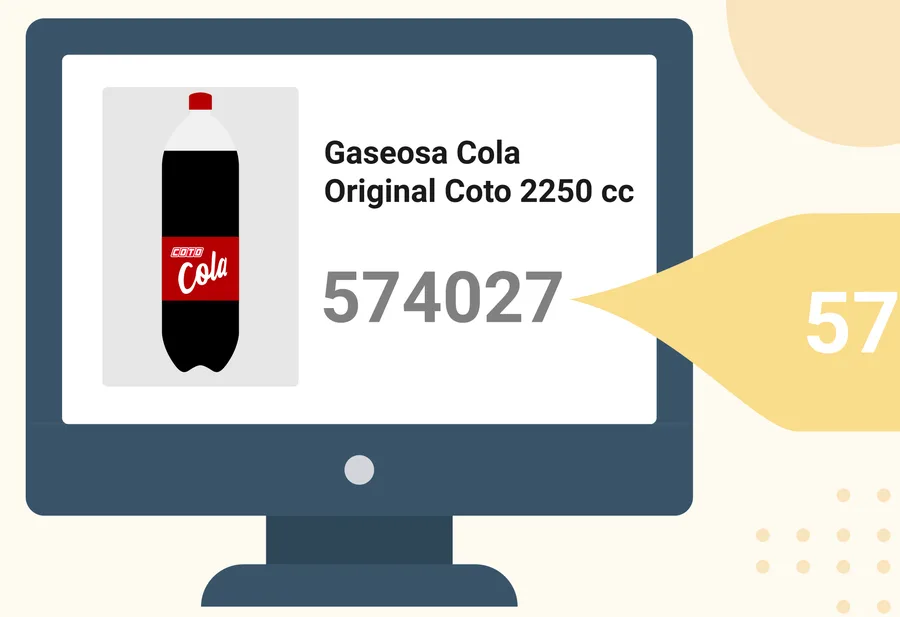
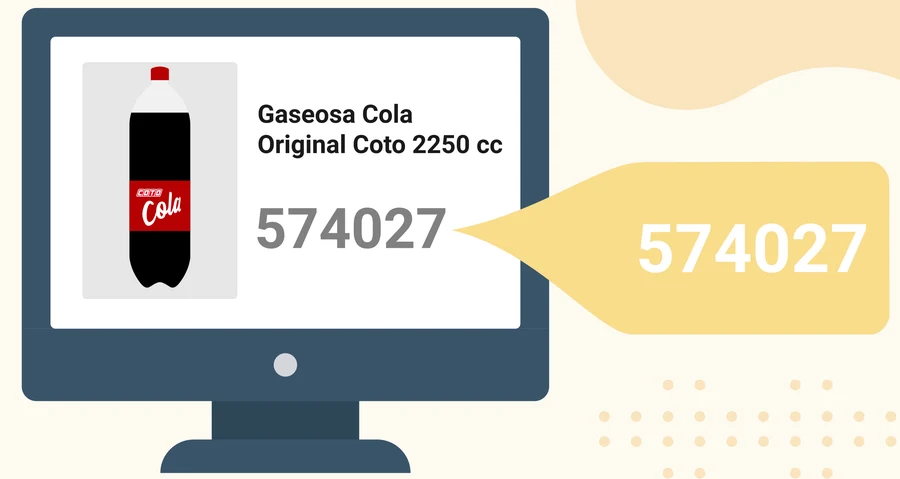
Ronda 9: rediseño de la portada del mini juego y recorte correcto de 3 ilustraciones
La Ronda 8 había dejado el mini juego sin el arte de la portada del PDF
(mascotas, guirnaldas, guarda inferior) y 3 de las 5 ilustraciones de
pregunta mal recortadas (el globo de "574027" cortado a la mitad, el
carrito y el gráfico de barras solo visibles en una esquina). Se
recortaron las mascotas/guirnalda del PDF a resolución completa, se
re-recortaron las 3 ilustraciones con margen generoso, y los chips
Concepto/Puntos/Vidas/Reglas pasaron a un estilo uniforme calcado del
PDF (sin el resaltado dorado que traía el kit por default en Puntos).
Verificado en desktop y viewport móvil real. Detalle completo en
work/surtido-sin-ventas/README-CURSO.md, sección Ronda 9.

Claude-Session: https://claude.ai/code/session_01TWiDjingk3EDtNmA7RC5c6

diff --git a/work/surtido-sin-ventas/index.html b/work/surtido-sin-ventas/index.html
@@ -354,33 +354,46 @@
     <div class="d-mj-panel" data-mj-panel="intro">
       <div class="d-mj-intro">
         <span class="d-mj-intro-kicker"><svg viewBox="0 0 24 24" fill="none" stroke="currentColor" stroke-width="2" stroke-linecap="round" stroke-linejoin="round" aria-hidden="true"><path d="M9 11.5V6a2 2 0 1 1 4 0v5"/><path d="M13 6a2 2 0 1 1 4 0v6"/><path d="M17 8a2 2 0 1 1 4 0v6a7 7 0 0 1-7 7h-2a7 7 0 0 1-6-3.4L3.3 13a1.8 1.8 0 0 1 2.8-2.2L9 13.5"/></svg> ¡Jugá con nosotros!</span>
-        <h2 class="d-mj-intro-tit" data-slide-title>¡Bienvenido a este <span>mini juego</span>!</h2>
-        <p class="d-mj-intro-body">En este juego se te van a presentar distintos conceptos y, dentro de varias respuestas, tenés que seleccionar la correcta.</p>
-        <button type="button" class="btn btn-cat d-mj-intro-cta" data-mj-start>¡Empecemos!</button>
-        <ul class="d-mj-intro-tips">
-          <li><span class="d-mj-intro-tip-ic" aria-hidden="true"><svg viewBox="0 0 24 24"><circle cx="12" cy="12" r="9"/><circle cx="12" cy="12" r="5"/><circle cx="12" cy="12" r="1.4" fill="currentColor"/></svg></span><b>Observá</b> cada situación</li>
-          <li><span class="d-mj-intro-tip-ic" aria-hidden="true"><svg viewBox="0 0 24 24"><path d="M9 18h6M10 21h4"/><path d="M12 3a6 6 0 0 0-3 11.2c.5.4.8 1 .8 1.8h4.4c0-.8.3-1.4.8-1.8A6 6 0 0 0 12 3z"/></svg></span><b>Pensá</b> antes de elegir</li>
-          <li><span class="d-mj-intro-tip-ic" aria-hidden="true"><svg viewBox="0 0 24 24"><rect x="4" y="15" width="16" height="3" rx="1"/><rect x="5" y="11" width="14" height="3" rx="1"/><rect x="6" y="7" width="12" height="3" rx="1"/></svg></span><b>Aprendé</b> mientras jugás</li>
-        </ul>
+        <div class="d-mj-intro-main">
+          <img class="d-mj-intro-mascot d-mj-intro-mascot--l" src="img/mj-mascota-1.webp" alt="" aria-hidden="true" width="550" height="1410">
+          <div class="d-mj-intro-mid">
+            <h2 class="d-mj-intro-tit" data-slide-title>¡Bienvenido a<br>
+              <span class="d-mj-intro-tit-line"><img class="d-mj-wreath d-mj-wreath--l" src="img/mj-wreath.webp" alt="" aria-hidden="true">este <span>mini juego</span>!<img class="d-mj-wreath d-mj-wreath--r" src="img/mj-wreath.webp" alt="" aria-hidden="true"></span>
+            </h2>
+            <div class="d-mj-intro-bubble">
+              <p class="d-mj-intro-body">En este juego se te van a presentar distintos conceptos y, dentro de varias respuestas, tenés que seleccionar la correcta.</p>
+            </div>
+            <button type="button" class="btn btn-cat d-mj-intro-cta" data-mj-start>¡Empecemos!</button>
+          </div>
+          <img class="d-mj-intro-mascot d-mj-intro-mascot--r" src="img/mj-mascota-2.webp" alt="" aria-hidden="true" width="550" height="1410">
+        </div>
+        <div class="d-mj-intro-floor">
+          <ul class="d-mj-intro-tips">
+            <li><span class="d-mj-intro-tip-ic" aria-hidden="true"><svg viewBox="0 0 24 24"><circle cx="12" cy="12" r="9"/><circle cx="12" cy="12" r="5"/><circle cx="12" cy="12" r="1.4" fill="currentColor"/></svg></span><b>Observá</b> cada situación</li>
+            <li><span class="d-mj-intro-tip-ic" aria-hidden="true"><svg viewBox="0 0 24 24"><path d="M9 18h6M10 21h4"/><path d="M12 3a6 6 0 0 0-3 11.2c.5.4.8 1 .8 1.8h4.4c0-.8.3-1.4.8-1.8A6 6 0 0 0 12 3z"/></svg></span><b>Pensá</b> antes de elegir</li>
+            <li><span class="d-mj-intro-tip-ic" aria-hidden="true"><svg viewBox="0 0 24 24"><rect x="4" y="15" width="16" height="3" rx="1"/><rect x="5" y="11" width="14" height="3" rx="1"/><rect x="6" y="7" width="12" height="3" rx="1"/></svg></span><b>Aprendé</b> mientras jugás</li>
+          </ul>
+        </div>
       </div>
     </div>
     <div class="d-mj-panel" data-mj-panel="play" hidden>
       <div class="d-mj-play">
+        <span class="d-mj-intro-kicker d-mj-play-kicker"><svg viewBox="0 0 24 24" fill="none" stroke="currentColor" stroke-width="2" stroke-linecap="round" stroke-linejoin="round" aria-hidden="true"><path d="M9 11.5V6a2 2 0 1 1 4 0v5"/><path d="M13 6a2 2 0 1 1 4 0v6"/><path d="M17 8a2 2 0 1 1 4 0v6a7 7 0 0 1-7 7h-2a7 7 0 0 1-6-3.4L3.3 13a1.8 1.8 0 0 1 2.8-2.2L9 13.5"/></svg> ¡Jugá con nosotros!</span>
         <div class="d-mj-stats">
           <div class="d-mj-stat">
             <span class="d-mj-stat-lbl">Concepto</span>
             <b><span data-mj-idx>1</span>/<span data-mj-total>5</span></b>
           </div>
-          <div class="d-mj-stat d-mj-stat--pts">
+          <div class="d-mj-stat">
             <span class="d-mj-stat-lbl">Puntos</span>
-            <b><span class="d-mj-trophy" aria-hidden="true">🏆</span><span data-mj-puntos-juego>0</span></b>
+            <b><span class="d-mj-trophy" aria-hidden="true"><svg viewBox="0 0 24 24" fill="currentColor"><path d="M6 3h12v2h2.5a1 1 0 0 1 1 1.1c-.2 2.1-1.2 4-3.5 4.7-.6 1.5-1.8 2.6-3.5 3v2.2h2.4a1 1 0 0 1 1 1V19H8v-2a1 1 0 0 1 1-1h2.4v-2.2c-1.7-.4-2.9-1.5-3.5-3-2.3-.7-3.3-2.6-3.5-4.7A1 1 0 0 1 5.4 5H8V3zM6 7H4.9c.2 1.1.7 2 1.6 2.5A9 9 0 0 1 6 7zm12 0a9 9 0 0 1-.5 2.5c.9-.5 1.4-1.4 1.6-2.5H18z"/></svg></span><span data-mj-puntos-juego>0</span></b>
           </div>
           <div class="d-mj-stat">
             <span class="d-mj-stat-lbl">Vidas</span>
             <span class="d-mj-lives" data-mj-lives>
-              <svg class="d-mj-heart" data-mj-heart viewBox="0 0 24 24" fill="currentColor" aria-hidden="true"><path d="M12 21s-6.7-4.35-9.75-8.5C.4 9.4 2 6 5.6 6c2 0 3.6 1.2 4.6 2.7C11.2 7.2 12.8 6 15.1 6 18.4 6 20 9.5 18.05 12.5 15 16.65 12 21 12 21z"/></svg>
-              <svg class="d-mj-heart" data-mj-heart viewBox="0 0 24 24" fill="currentColor" aria-hidden="true"><path d="M12 21s-6.7-4.35-9.75-8.5C.4 9.4 2 6 5.6 6c2 0 3.6 1.2 4.6 2.7C11.2 7.2 12.8 6 15.1 6 18.4 6 20 9.5 18.05 12.5 15 16.65 12 21 12 21z"/></svg>
-              <svg class="d-mj-heart" data-mj-heart viewBox="0 0 24 24" fill="currentColor" aria-hidden="true"><path d="M12 21s-6.7-4.35-9.75-8.5C.4 9.4 2 6 5.6 6c2 0 3.6 1.2 4.6 2.7C11.2 7.2 12.8 6 15.1 6 18.4 6 20 9.5 18.05 12.5 15 16.65 12 21 12 21z"/></svg>
+              <svg class="d-mj-heart" data-mj-heart viewBox="0 0 8 7" fill="currentColor" shape-rendering="crispEdges" aria-hidden="true"><rect x="1" y="0" width="2" height="1"/><rect x="5" y="0" width="2" height="1"/><rect x="0" y="1" width="8" height="1"/><rect x="0" y="2" width="8" height="1"/><rect x="0" y="3" width="8" height="1"/><rect x="1" y="4" width="6" height="1"/><rect x="2" y="5" width="4" height="1"/><rect x="3" y="6" width="2" height="1"/></svg>
+              <svg class="d-mj-heart" data-mj-heart viewBox="0 0 8 7" fill="currentColor" shape-rendering="crispEdges" aria-hidden="true"><rect x="1" y="0" width="2" height="1"/><rect x="5" y="0" width="2" height="1"/><rect x="0" y="1" width="8" height="1"/><rect x="0" y="2" width="8" height="1"/><rect x="0" y="3" width="8" height="1"/><rect x="1" y="4" width="6" height="1"/><rect x="2" y="5" width="4" height="1"/><rect x="3" y="6" width="2" height="1"/></svg>
+              <svg class="d-mj-heart" data-mj-heart viewBox="0 0 8 7" fill="currentColor" shape-rendering="crispEdges" aria-hidden="true"><rect x="1" y="0" width="2" height="1"/><rect x="5" y="0" width="2" height="1"/><rect x="0" y="1" width="8" height="1"/><rect x="0" y="2" width="8" height="1"/><rect x="0" y="3" width="8" height="1"/><rect x="1" y="4" width="6" height="1"/><rect x="2" y="5" width="4" height="1"/><rect x="3" y="6" width="2" height="1"/></svg>
             </span>
           </div>
           <button type="button" class="d-mj-stat d-mj-rules" data-popup-trigger="minijuego-reglas">

diff --git a/work/surtido-sin-ventas/css/diapositivas.css b/work/surtido-sin-ventas/css/diapositivas.css
@@ -76,32 +76,88 @@
   overflow-y: auto; padding: 1.5rem 0; width: 100%; }
 
 /* ---- Intro ---- */
-.d-mj-intro { max-width: 720px; margin: 0 auto; text-align: center; padding: 0 1.5rem; }
+.d-mj-intro { max-width: 1020px; margin: 0 auto; text-align: center; padding: 0 1.5rem;
+  width: 100%; position: relative; }
 .d-mj-intro-kicker { display: inline-flex; align-items: center; gap: .5rem;
   padding: .5rem 1.1rem; border-radius: var(--r-pill); background: var(--cat-grad);
   color: #fff; font-weight: 800; font-size: .85rem; margin-bottom: 1.3rem; }
 .d-mj-intro-kicker svg { width: 18px; height: 18px; fill: none; stroke: currentColor; stroke-width: 2; }
+/* ---- "Jugá con nosotros": franja fija arriba a la izquierda en las
+   5 pantallas de pregunta del PDF real — no solo en la intro. ---- */
+.d-mj-play-kicker { position: absolute; top: 0; left: 1.5rem; margin: 0; z-index: 1; }
+
+.d-mj-intro-main { display: flex; align-items: flex-end; justify-content: center;
+  gap: 1.2rem; }
+.d-mj-intro-mascot { width: clamp(90px, 13cqw, 168px); height: auto; flex: none;
+  align-self: flex-end; }
+.d-mj-intro-mid { flex: 1 1 480px; max-width: 560px; }
 .d-mj-intro-tit { font-family: var(--font-title); font-weight: 900;
-  font-size: clamp(1.6rem, 3cqw, 2.3rem); margin: 0 0 1rem; line-height: 1.15; }
-.d-mj-intro-tit span { color: var(--cat-ink); }
-.d-mj-intro-body { font-size: 1rem; color: var(--text); line-height: 1.5; margin: 0 0 1.5rem; }
-.d-mj-intro-cta { margin-bottom: 2rem; }
+  font-size: clamp(1.5rem, 2.6cqw, 2.1rem); margin: 0 0 1.1rem; line-height: 1.2; }
+.d-mj-intro-tit-line { position: relative; display: inline-flex; align-items: center;
+  gap: .5rem; }
+.d-mj-intro-tit span:not(.d-mj-wreath):not(.d-mj-intro-tit-line) { color: var(--cat-ink); }
+.d-mj-wreath { width: 40px; height: auto; flex: none; opacity: .95; align-self: center; }
+.d-mj-wreath--r { transform: scaleX(-1); }
+.d-mj-intro-bubble { background: var(--surface); border: 1px solid var(--line);
+  border-radius: var(--r-xl); box-shadow: var(--shadow-card); padding: 1.2rem 1.4rem;
+  margin: 0 0 1.1rem; }
+.d-mj-intro-body { font-size: .96rem; color: var(--text); line-height: 1.5; margin: 0; }
+.d-mj-intro-cta { margin: 0 0 .5rem; }
+
+.d-mj-intro-floor { margin-top: 1.8rem; width: 100vw; margin-left: calc(50% - 50vw);
+  padding: 1.3rem 1.5rem .9rem; border-radius: 48% 48% 0 0 / 60px 60px 0 0;
+  background: linear-gradient(180deg, #9199a6, #767f8d); }
 .d-mj-intro-tips { list-style: none; margin: 0; padding: 0; display: flex;
   justify-content: center; gap: 2rem; flex-wrap: wrap; }
 .d-mj-intro-tips li { display: flex; flex-direction: column; align-items: center;
-  gap: .4rem; font-size: .85rem; color: var(--text-soft); max-width: 140px; }
-.d-mj-intro-tips b { color: var(--text); font-family: var(--font-title); }
-.d-mj-intro-tip-ic { width: 44px; height: 44px; border-radius: 50%; display: grid;
-  place-items: center; background: var(--cat-wash); color: var(--cat-ink); }
-.d-mj-intro-tip-ic svg { width: 24px; height: 24px; fill: none; stroke: currentColor;
+  gap: .3rem; font-size: .82rem; color: #eef0f4; max-width: 140px; }
+.d-mj-intro-tips b { color: #fff; font-family: var(--font-title); }
+.d-mj-intro-tip-ic { width: 40px; height: 40px; border-radius: 50%; display: grid;
+  place-items: center; background: rgba(255,255,255,.16); color: #ffbd59; }
+.d-mj-intro-tip-ic svg { width: 22px; height: 22px; fill: none; stroke: currentColor;
   stroke-width: 2; stroke-linecap: round; stroke-linejoin: round; }
+
+@media (max-width: 760px) {
+  .d-mj-intro-mascot { display: none; }
+}
+@media (max-width: 480px) {
+  /* Mismo motivo que el padding-bottom de .d-mj-play más abajo: la
+     franja de tips es la última fila del panel y el fab-stack
+     (engranaje/ayuda, fijo del kit) le tapa el 3er ítem si no le
+     dejamos hueco a la derecha. Achicamos gap/ícono/texto para que
+     los 3 ítems sigan entrando en una sola fila con ese hueco. */
+  .d-mj-intro-floor { padding: 1rem 1.5rem .8rem; padding-right: 70px; }
+  .d-mj-intro-tips { gap: .6rem; flex-wrap: nowrap; }
+  .d-mj-intro-tips li { font-size: .68rem; max-width: none; }
+  .d-mj-intro-tip-ic { width: 32px; height: 32px; }
+  .d-mj-intro-tip-ic svg { width: 18px; height: 18px; }
+}
 
 /* ---- Tarjeta de pregunta ---- */
 .d-mj-play { display: flex; flex-direction: column; gap: 1.1rem; width: 100%;
-  max-width: 900px; margin: 0 auto; padding: 0 1.5rem; }
-.d-mj-card { display: flex; align-items: center; gap: 1.5rem;
-  background: linear-gradient(160deg, #fff8ea, #fdf1da); border: 1px solid #f0dcae;
+  max-width: 900px; margin: 0 auto; padding: 3.4rem 1.5rem 0; position: relative; }
+.d-mj-trophy svg { width: 1.1em; height: 1.1em; vertical-align: -.15em; color: #e0a52e; }
+/* Fondo decorativo de la tarjeta calcado del PDF: puntos en grilla
+   arriba a la izquierda + 2 manchas cálidas en las esquinas —
+   100% CSS (gradientes/radial), no un recorte del PDF, para que
+   escale con cualquier alto de tarjeta sin pixelarse. */
+.d-mj-card { position: relative; overflow: hidden; display: flex; align-items: center;
+  gap: 1.5rem; background: linear-gradient(160deg, #fff8ea, #fdf1da); border: 1px solid #f0dcae;
   border-radius: var(--r-xl); padding: 1.6rem 1.8rem; min-height: 210px; }
+.d-mj-card::before { content: ""; position: absolute; inset: 0; pointer-events: none;
+  background:
+    radial-gradient(circle at 92% -6%, #f6dfae 0%, #f6dfae 22%, transparent 23%),
+    radial-gradient(circle at 100% 78%, #fbe8c4 0%, #fbe8c4 26%, transparent 27%),
+    radial-gradient(circle 1.5px at 8% 16%, #ecd39c 96%, transparent 100%),
+    radial-gradient(circle 1.5px at 14% 16%, #ecd39c 96%, transparent 100%),
+    radial-gradient(circle 1.5px at 8% 22%, #ecd39c 96%, transparent 100%),
+    radial-gradient(circle 1.5px at 14% 22%, #ecd39c 96%, transparent 100%),
+    radial-gradient(circle 1.5px at 20% 22%, #ecd39c 96%, transparent 100%),
+    radial-gradient(circle 1.5px at 8% 28%, #ecd39c 96%, transparent 100%),
+    radial-gradient(circle 1.5px at 14% 28%, #ecd39c 96%, transparent 100%),
+    radial-gradient(circle 1.5px at 20% 28%, #ecd39c 96%, transparent 100%);
+  opacity: .8; }
+.d-mj-card > * { position: relative; }
 .d-mj-card-text { flex: 1 1 55%; font-size: 1.02rem; line-height: 1.5; color: var(--text); }
 .d-mj-card-text b { color: var(--cat-ink); }
 .d-mj-card-img { flex: 1 1 40%; display: flex; align-items: center; justify-content: center; }

diff --git a/work/surtido-sin-ventas/README-CURSO.md b/work/surtido-sin-ventas/README-CURSO.md
@@ -327,6 +327,77 @@ Suite completa (7/7), `check-css-duplicates`/`check-image-weight`
 siguen en verde. Baseline de `visual-regress.mjs` regenerada (el panel
 del mini juego cambió por completo).
 
+## Ronda 9 — el mini juego de la Ronda 8 no calcaba el diseño del PDF: portada sin arte, 3 de 5 ilustraciones mal recortadas, chips con un estilo propio
+
+El cliente mandó capturas reales de su propia prueba (portada, Q1, Q2)
+comparadas con el PDF de referencia: la portada no tenía el arte de los
+2 mascotas ni la guarda gris de abajo, y en la Q2 ("Control de surtido
+sin venta") la tarjeta se veía sin ilustración. Reabrí el PDF de la
+Ronda 8 a resolución completa (no solo el recorte que había usado para
+cada pregunta) y encontré el problema real:
+
+1. **3 de las 5 ilustraciones recortadas en la Ronda 8 estaban mal
+   encuadradas** — `mj-plu-ean.webp` cortaba el globo con el número
+   "574027" grande a la mitad; `mj-mejorar-venta.webp` y
+   `mj-rotacion.webp` estaban recortadas tan de cerca que solo se veía
+   una esquina del carrito/gráfico de barras real (de ahí el reporte
+   de "faltan las ilustraciones": no faltaban, estaban ahí pero
+   ilegibles). Re-recortadas las 3 desde el PDF a resolución completa,
+   con margen generoso alrededor del elemento real (verificadas contra
+   el render de cada página, una por una). Las otras 2 (`mj-reporte.
+   webp`, `mj-ean.webp`) ya estaban bien encuadradas — no se tocaron.
+2. **La portada no reconstruía el diseño del PDF** — la Ronda 8 solo
+   había traducido el TEXTO de la intro (kicker, título, tips), no el
+   arte: 2 mascotas de COTO a los costados, guirnaldas junto a "mini
+   juego", el globo de instrucción como tarjeta blanca, y la guarda
+   gris curva de abajo con los 3 íconos. Recorté las 2 mascotas y la
+   guirnalda directo del PDF (páginas a resolución completa vía
+   PyMuPDF): son arte vectorial plano sobre fondo blanco liso (a
+   diferencia de las mascotas de las pantallas finales de la Ronda 8,
+   que SÍ se habían descartado por venir aplanadas sobre una tarjeta
+   con textura), así que el recorte rectangular con márgenes generosos
+   funciona limpio — sin necesidad de una máscara de silueta. Un
+   detalle real encontrado al recortar: el PNG de la página trae una
+   sombra suave del globo de texto detrás del brazo de cada mascota;
+   se filtró con un pase que blanquea cualquier píxel cercano a gris
+   puro (`abs(r-g)≤6` etc.) antes de recortar, así la sombra desaparece
+   sin tocar los colores reales del dibujo (rojo/piel/azul no son
+   grises). La guirnalda si se dejó con canal alfa real (a diferencia
+   de las mascotas): no tiene ninguna zona blanca propia que pueda
+   confundirse con fondo, así que se pudo pasar a transparencia total
+   sin ese riesgo.
+3. **Los chips (Concepto/Puntos/Vidas/Reglas) tenían un estilo propio
+   de esta sesión, no el del PDF** — la Ronda 8 le había dejado al
+   chip de Puntos el fondo dorado que trae `coto-minijuego.css` por
+   default (`.d-mj-stat--pts`); el PDF real muestra los 4 chips con el
+   mismo fondo gris liso, sin resaltar ninguno. Se dejó de usar esa
+   clase modificadora (el chip de Puntos ahora es un `.d-mj-stat` más,
+   igual que los otros 3). También se sumó el rótulo "¡Jugá con
+   nosotros!" arriba a la izquierda de las 5 pantallas de pregunta —
+   en la Ronda 8 solo estaba en la intro, pero el PDF lo repite en
+   cada pantalla del juego.
+
+**No se tocó** la lógica de puntaje/vidas/guarda anti-farming de la
+Ronda 8 (sigue en 120 pts totales, 3 vidas, reintentos ilimitados) —
+este pedido era 100% visual, sobre una mecánica que ya estaba
+verificada y funcionando.
+
+**Viewport móvil real** (iPhone 12, regla de CLAUDE.md §7.3/§6.10.1):
+el recorte de la guirnalda, hecho por error con fondo blanco opaco en
+un primer intento, se veía como un cuadrado blanco feo contra el fondo
+celeste de la app en mobile (mucho más notorio ahí que en desktop, por
+el contraste con el texto pegado al lado) — se corrigió pasándola a
+canal alfa real. La guarda gris de la portada, al ser ahora ancho
+completo (`100vw`), dejaba la 3ª pastilla ("Aprendé") tapada por el
+fab-stack fijo del kit en ≤480px — corregido con el mismo criterio que
+ya se había aplicado a las píldoras de respuesta en la Ronda 8
+(reservar hueco a la derecha), más un achique de gap/ícono/tipografía
+para que las 3 pastillas sigan entrando en una sola fila con ese hueco.
+
+Suite completa (7/7), `check-css-duplicates`/`check-image-weight`
+en verde. Baseline de `visual-regress.mjs` regenerada (portada y las
+5 pantallas de pregunta cambiaron visualmente).
+
 ## Decisiones de esta migración
 
 - **Reencuadre 2:1**: en vez de editar las capturas (proporción real
